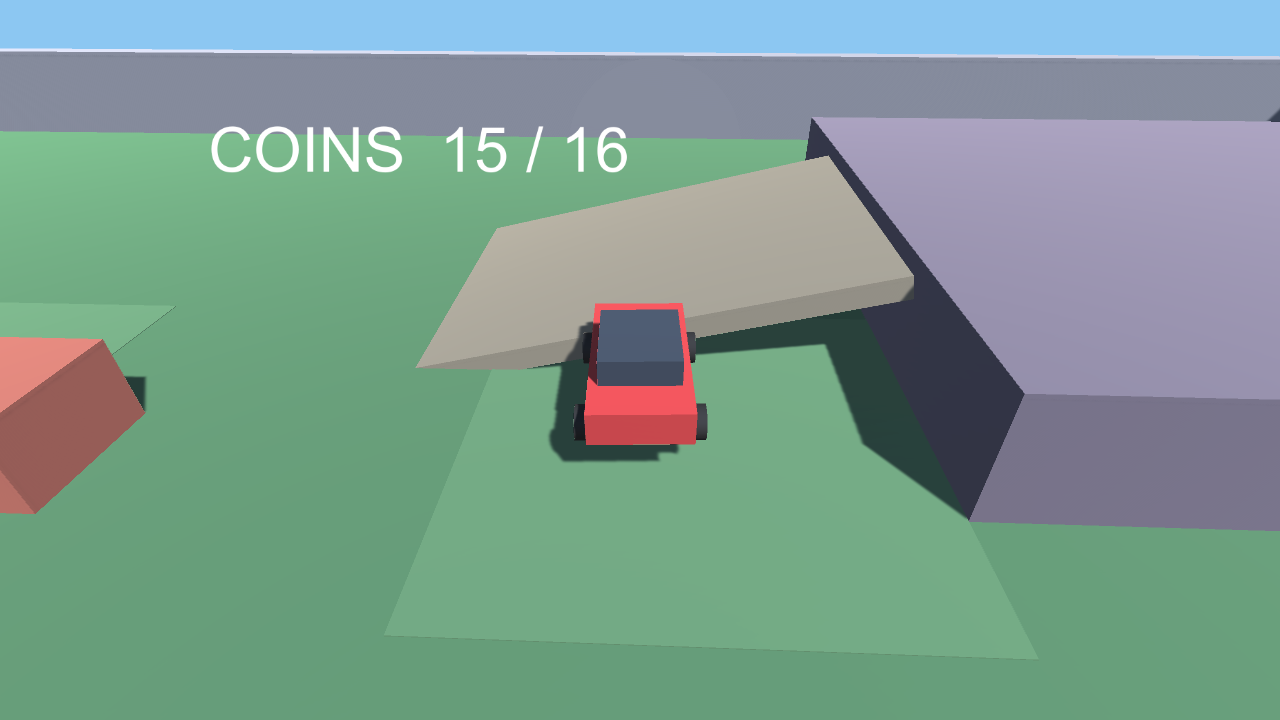
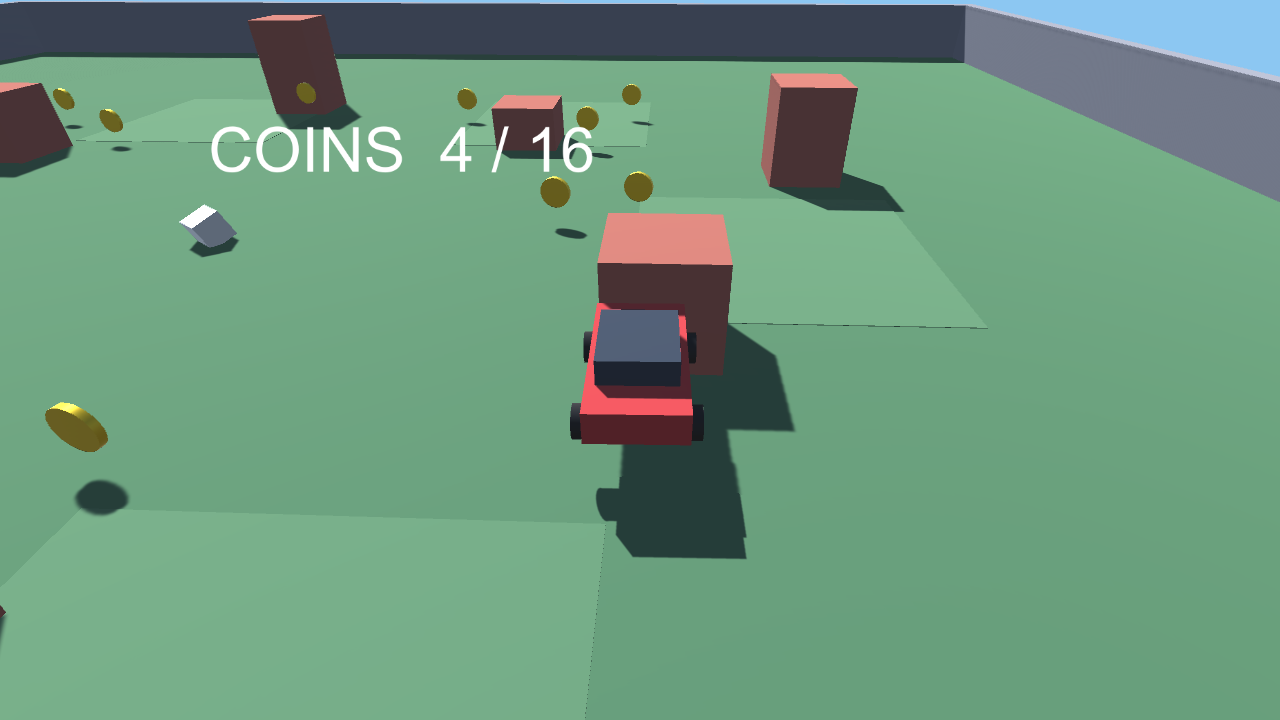
Add POP BGM (chords+bass+arp+drums) and gold particle burst on pickup

diff --git a/src/Juice.cs b/src/Juice.cs
@@ -16,7 +16,7 @@ public static class Juice
         var go = new GameObject("__Juice");
         Object.DontDestroyOnLoad(go);
         _sfx = go.AddComponent<AudioSource>(); _sfx.playOnAwake = false;
-        _bgm = go.AddComponent<AudioSource>(); _bgm.loop = true; _bgm.volume = 0.20f; _bgm.playOnAwake = false;
+        _bgm = go.AddComponent<AudioSource>(); _bgm.loop = true; _bgm.volume = 0.30f; _bgm.playOnAwake = false;
         _bgm.clip = BuildBgm();
         _bgm.Play();                       // WebGL: resumes on first user input automatically
         go.AddComponent<JuiceRunner>();
@@ -63,24 +63,94 @@ public static class Juice
         var c = AudioClip.Create("sfx", n, 1, sr, false); c.SetData(data, 0); return c;
     }
 
+    // ---- POP background track: I-V-vi-IV in C major, 128 BPM, looping ----
+    // Layers: sine chord pad + square bass (8th pulse) + triangle arpeggio lead
+    //         + 4-on-the-floor kick + hi-hats + snare on 2 & 4.
     static AudioClip BuildBgm()
     {
-        int sr = 44100; float beat = 60f / 110f;
-        float[] notes = { 220f, 277.18f, 329.63f, 277.18f, 246.94f, 329.63f, 220f, 196f };
-        int total = (int)(sr * beat * notes.Length);
+        int sr = 44100;
+        const float bpm = 128f;
+        float beat = 60f / bpm;
+        int bars = 4, bpb = 4;
+        int total = (int)(sr * beat * bars * bpb);
         var data = new float[total];
-        for (int b = 0; b < notes.Length; b++)
+
+        float[][] chord = {
+            new float[]{261.63f, 329.63f, 392.00f},  // C  major
+            new float[]{196.00f, 246.94f, 293.66f},  // G  major
+            new float[]{220.00f, 261.63f, 329.63f},  // A  minor
+            new float[]{174.61f, 220.00f, 261.63f},  // F  major
+        };
+        float[] bassF = { 65.41f, 98.00f, 110.00f, 87.31f };  // C2 G2 A2 F2
+        float eighth = beat / 2f;
+
+        for (int bar = 0; bar < bars; bar++)
         {
-            int start = (int)(sr * beat * b), len = (int)(sr * beat);
-            for (int i = 0; i < len && start + i < total; i++)
+            var ch = chord[bar];
+            int barStart = (int)(sr * beat * bar * bpb);
+
+            // soft sustained chord pad
+            for (int n = 0; n < 3; n++)
+                AddTone(data, sr, barStart, beat * bpb, ch[n], 0.09f, 0, 0.5f);
+
+            // 8th-note bass + arpeggio lead + hats
+            for (int e = 0; e < bpb * 2; e++)
             {
-                float t = (float)i / sr, env = Mathf.Exp(-t * 3f);
-                float s = Mathf.Sin(2f * Mathf.PI * notes[b] * t) * 0.5f
-                        + Mathf.Sin(2f * Mathf.PI * (notes[b] / 2f) * t) * 0.2f;
-                data[start + i] = s * env * 0.6f;
+                int es = barStart + (int)(sr * eighth * e);
+                AddTone(data, sr, es, eighth * 0.92f, bassF[bar], 0.34f, 1, 7f);   // square bass
+                AddTone(data, sr, es, eighth * 0.85f, ch[e % 3] * 2f, 0.17f, 3, 6f); // triangle arp (octave up)
+                AddNoise(data, sr, es, 0.045f, (e % 2 == 1) ? 0.11f : 0.06f, 65f);   // hat
+            }
+
+            // drums on the beat
+            for (int b = 0; b < bpb; b++)
+            {
+                int bs = barStart + (int)(sr * beat * b);
+                AddKick(data, sr, bs, 0.6f);
+                if (b % 2 == 1) { AddNoise(data, sr, bs, 0.13f, 0.24f, 26f); AddTone(data, sr, bs, 0.09f, 190f, 0.14f, 0, 32f); } // snare 2&4
             }
         }
+
+        for (int i = 0; i < total; i++) data[i] = Mathf.Clamp(data[i] * 0.85f, -0.97f, 0.97f);
         var c = AudioClip.Create("bgm", total, 1, sr, false); c.SetData(data, 0); return c;
+    }
+
+    // wave: 0 sine, 1 square, 2 saw, 3 triangle
+    static void AddTone(float[] buf, int sr, int start, float dur, float freq, float amp, int wave, float decay)
+    {
+        int len = (int)(sr * dur);
+        for (int i = 0; i < len && start + i < buf.Length; i++)
+        {
+            float t = (float)i / sr;
+            float ph = freq * t;
+            float s;
+            if (wave == 1)      s = Mathf.Sign(Mathf.Sin(2f * Mathf.PI * ph));
+            else if (wave == 2) s = 2f * (ph - Mathf.Floor(ph + 0.5f));
+            else if (wave == 3) s = Mathf.Abs(4f * (ph - Mathf.Floor(ph + 0.5f))) - 1f;
+            else                s = Mathf.Sin(2f * Mathf.PI * ph);
+            buf[start + i] += s * Mathf.Exp(-t * decay) * amp;
+        }
+    }
+
+    static void AddKick(float[] buf, int sr, int start, float amp)
+    {
+        int len = (int)(sr * 0.18f);
+        for (int i = 0; i < len && start + i < buf.Length; i++)
+        {
+            float t = (float)i / sr;
+            float freq = Mathf.Lerp(130f, 45f, Mathf.Clamp01(t / 0.09f));
+            buf[start + i] += Mathf.Sin(2f * Mathf.PI * freq * t) * Mathf.Exp(-t * 16f) * amp;
+        }
+    }
+
+    static void AddNoise(float[] buf, int sr, int start, float dur, float amp, float decay)
+    {
+        int len = (int)(sr * dur);
+        for (int i = 0; i < len && start + i < buf.Length; i++)
+        {
+            float t = (float)i / sr;
+            buf[start + i] += (Random.value * 2f - 1f) * Mathf.Exp(-t * decay) * amp;
+        }
     }
 
     class JuiceRunner : MonoBehaviour

diff --git a/src/CarCoinGame.cs b/src/CarCoinGame.cs
@@ -27,6 +27,7 @@ public class CarCoinGame : MonoBehaviour
     readonly List<Coin> coins = new List<Coin>();
     int total, collected;
     bool won;
+    Material goldMat;                 // shared gold material (coins + collect sparks)
     public static int triggerHits;   // debug: how many times any coin trigger fired
 
     // control state
@@ -52,6 +53,7 @@ public class CarCoinGame : MonoBehaviour
         foreach (var c in FindObjectsByType<Camera>(FindObjectsSortMode.None)) Destroy(c.gameObject);
         foreach (var l in FindObjectsByType<Light>(FindObjectsSortMode.None)) Destroy(l.gameObject);
 
+        goldMat = Mat(new Color(1f, 0.82f, 0.12f), 0.4f, 0.55f);
         BuildEnvironment();
         BuildCamera();
         BuildCar();
@@ -209,7 +211,7 @@ public class CarCoinGame : MonoBehaviour
         g.transform.position = pos;
         g.transform.rotation = Quaternion.Euler(90f, 0, 0);   // stand the disc upright
         g.transform.localScale = new Vector3(1.1f, 0.09f, 1.1f);
-        g.GetComponent<Renderer>().sharedMaterial = Mat(new Color(1f, 0.82f, 0.12f), 0.35f, 0.45f);
+        g.GetComponent<Renderer>().sharedMaterial = goldMat;
         var sc = g.AddComponent<SphereCollider>();
         sc.isTrigger = true;
         sc.radius = 3.5f; // generous pickup
@@ -279,7 +281,9 @@ public class CarCoinGame : MonoBehaviour
         c.taken = true;
         coins.Remove(c);
         collected++;
-        Juice.Score(c.transform.position);
+        Juice.Score();                 // pickup sound
+        Juice.Shake(0.12f);            // tiny pop
+        Burst(c.transform.position);   // gold particle burst
         Destroy(c.gameObject);
         Refresh();
         if (collected >= total && !won)
@@ -288,6 +292,22 @@ public class CarCoinGame : MonoBehaviour
             banner.text = "ALL COINS!\nYOU WIN";
             banner.gameObject.SetActive(true);
             Juice.Score(); Juice.Shake(0.4f);
+        }
+    }
+
+    // gold particle burst on pickup (CreatePrimitive cubes — renders reliably in WebGL)
+    void Burst(Vector3 pos)
+    {
+        for (int i = 0; i < 16; i++)
+        {
+            var p = GameObject.CreatePrimitive(PrimitiveType.Cube);
+            Destroy(p.GetComponent<Collider>());
+            p.transform.position = pos + Vector3.up * 0.3f;
+            p.transform.localScale = Vector3.one * Random.Range(0.16f, 0.34f);
+            p.transform.rotation = Random.rotation;
+            p.GetComponent<Renderer>().sharedMaterial = goldMat;
+            Vector3 dir = (Random.onUnitSphere + Vector3.up * 1.6f).normalized;
+            p.AddComponent<Spark>().Init(dir * Random.Range(4.5f, 9f));
         }
     }
 
@@ -401,5 +421,23 @@ public class Coin : MonoBehaviour
         CarCoinGame.triggerHits++;
         if (taken || game == null) return;
         if (other.GetComponentInParent<Rigidbody>() != null) game.Collect(this);
+    }
+}
+
+// A gold shard flung out when a coin is collected: arcs under gravity, spins, shrinks, fades out.
+public class Spark : MonoBehaviour
+{
+    Vector3 vel, spin;
+    float age, life = 0.6f;
+    public void Init(Vector3 v) { vel = v; spin = Random.insideUnitSphere * 720f; }
+    void Update()
+    {
+        float dt = Time.deltaTime;
+        age += dt;
+        vel += Vector3.down * 16f * dt;                 // gravity
+        transform.position += vel * dt;
+        transform.Rotate(spin * dt, Space.World);
+        transform.localScale *= Mathf.Max(0f, 1f - dt * 1.6f);
+        if (age >= life) Destroy(gameObject);
     }
 }